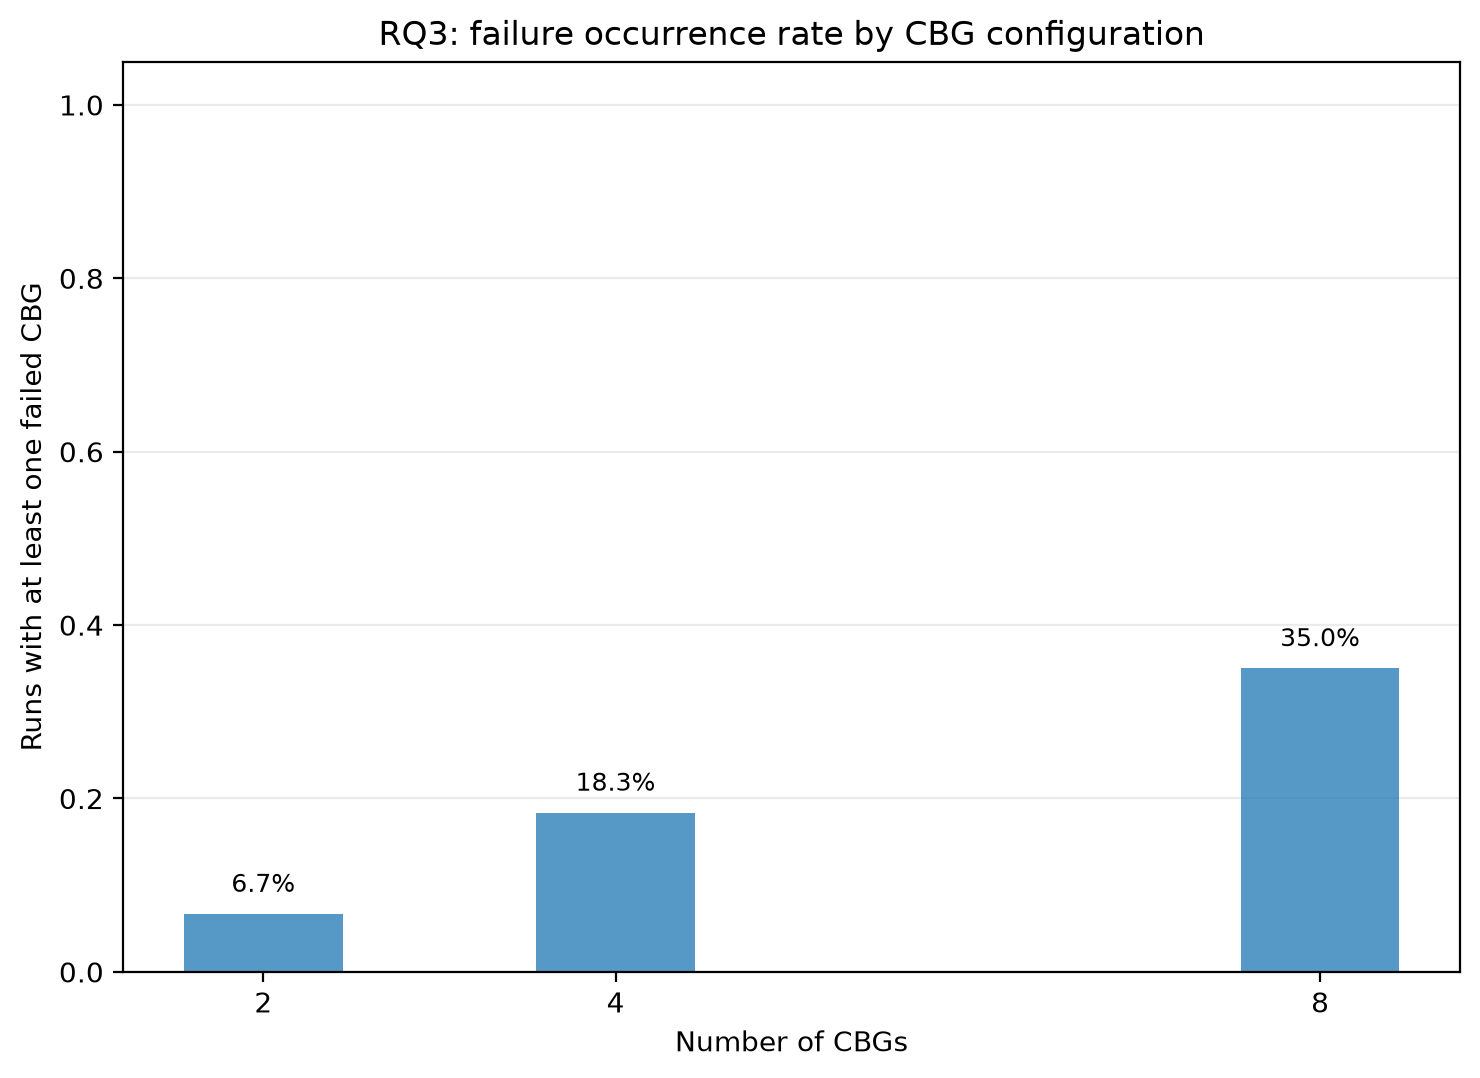
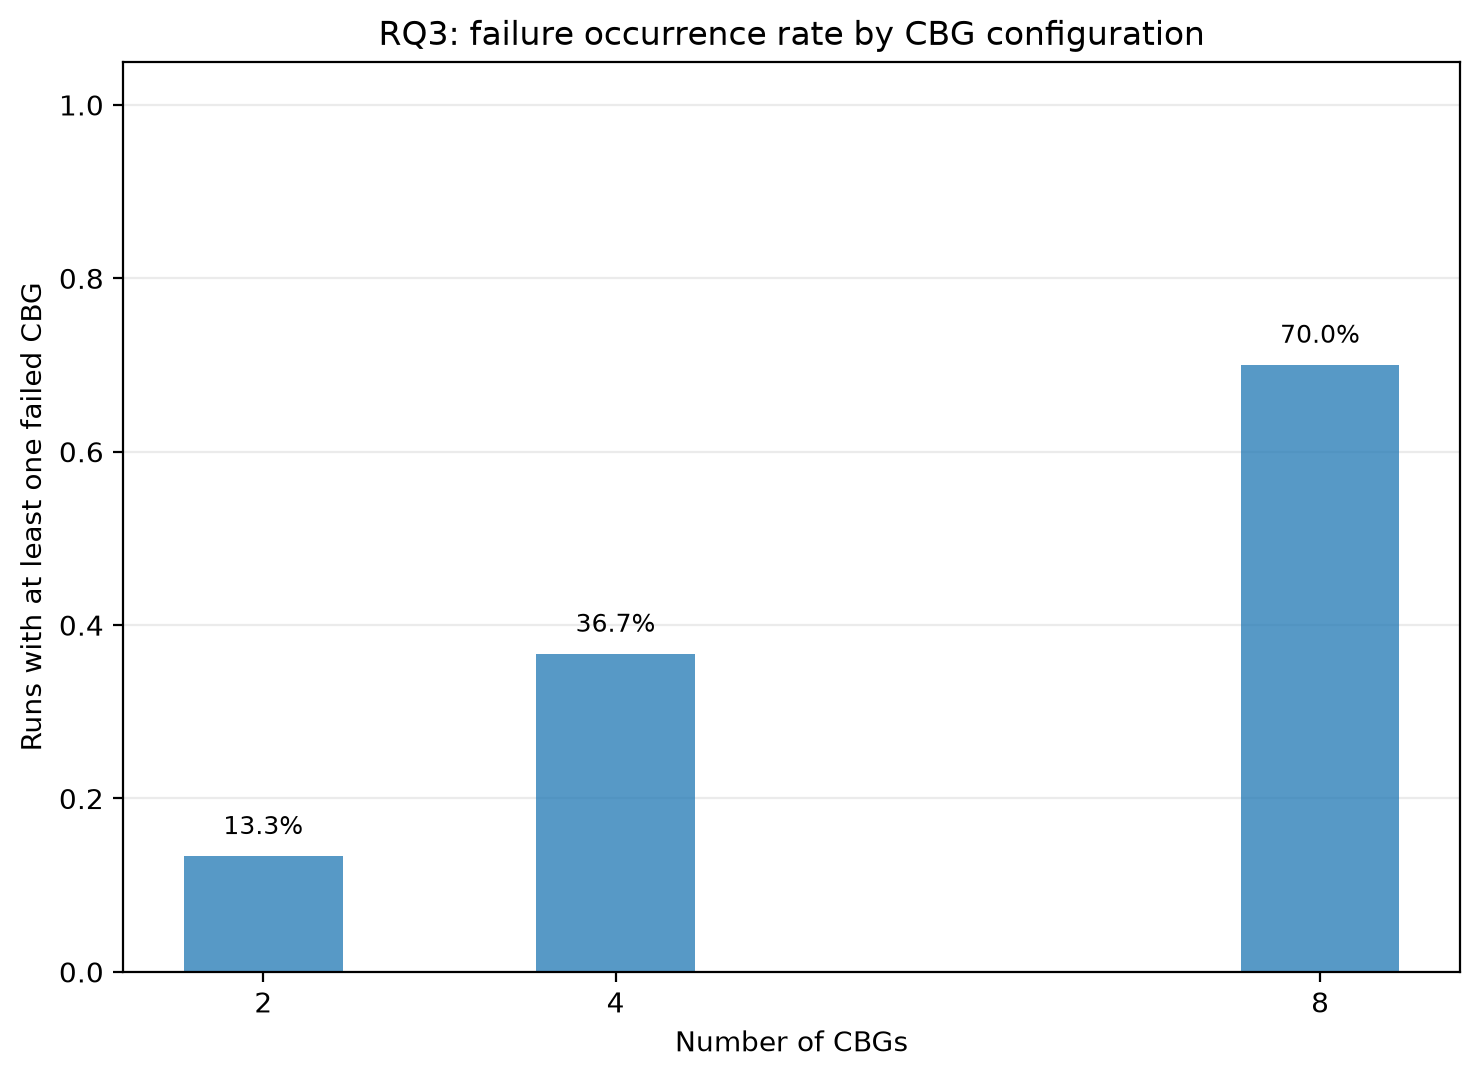
Final Commit

Changed region(s): [[0.8392, 0.3061, 0.9635, 0.6429], [0.3419, 0.551, 0.4973, 0.7653], [0.1243, 0.7653, 0.2486, 0.8571]]

diff --git a/analysis/plots.py b/analysis/plots.py
@@ -421,19 +421,25 @@ def plot_rq2(
         ),
     ]
 
+
 def plot_rq3_failure_occurrence_rate(
         df: pd.DataFrame,
         output_dir: Path = FIGURES_DIR,
-
 ) -> Path:
-    """Plot the proportion of runs with at least one failed CBG for each CBG count."""
+    """Plot failure occurrence using preempted RQ3 runs only."""
+
+    # Exclude no-preemption controls from the RQ3 failure rates.
+    df = df[df["condition"] == "preempted"].copy()
+
     cbg_counts = sorted(df["cbg_count"].unique())
     failure_rates = [
         (df.loc[df["cbg_count"] == count, "failed_cbg_count"] > 0).mean()
         for count in cbg_counts
     ]
+
     fig, ax = plt.subplots(figsize=(7.5, 5.5))
     bars = ax.bar(cbg_counts, failure_rates, alpha=0.75, width=0.9)
+
     for bar, rate in zip(bars, failure_rates):
         ax.annotate(
             f"{rate:.1%}",
@@ -451,11 +457,13 @@ def plot_rq3_failure_occurrence_rate(
     ax.set_ylim(0, 1.05)
     ax.grid(axis="y", alpha=0.25)
     ax.set_axisbelow(True)
+
     return _save(
         fig,
         "rq3_failure_occurrence_rate.png",
         output_dir,
     )
+
 
 def plot_rq3(
         df: pd.DataFrame,
